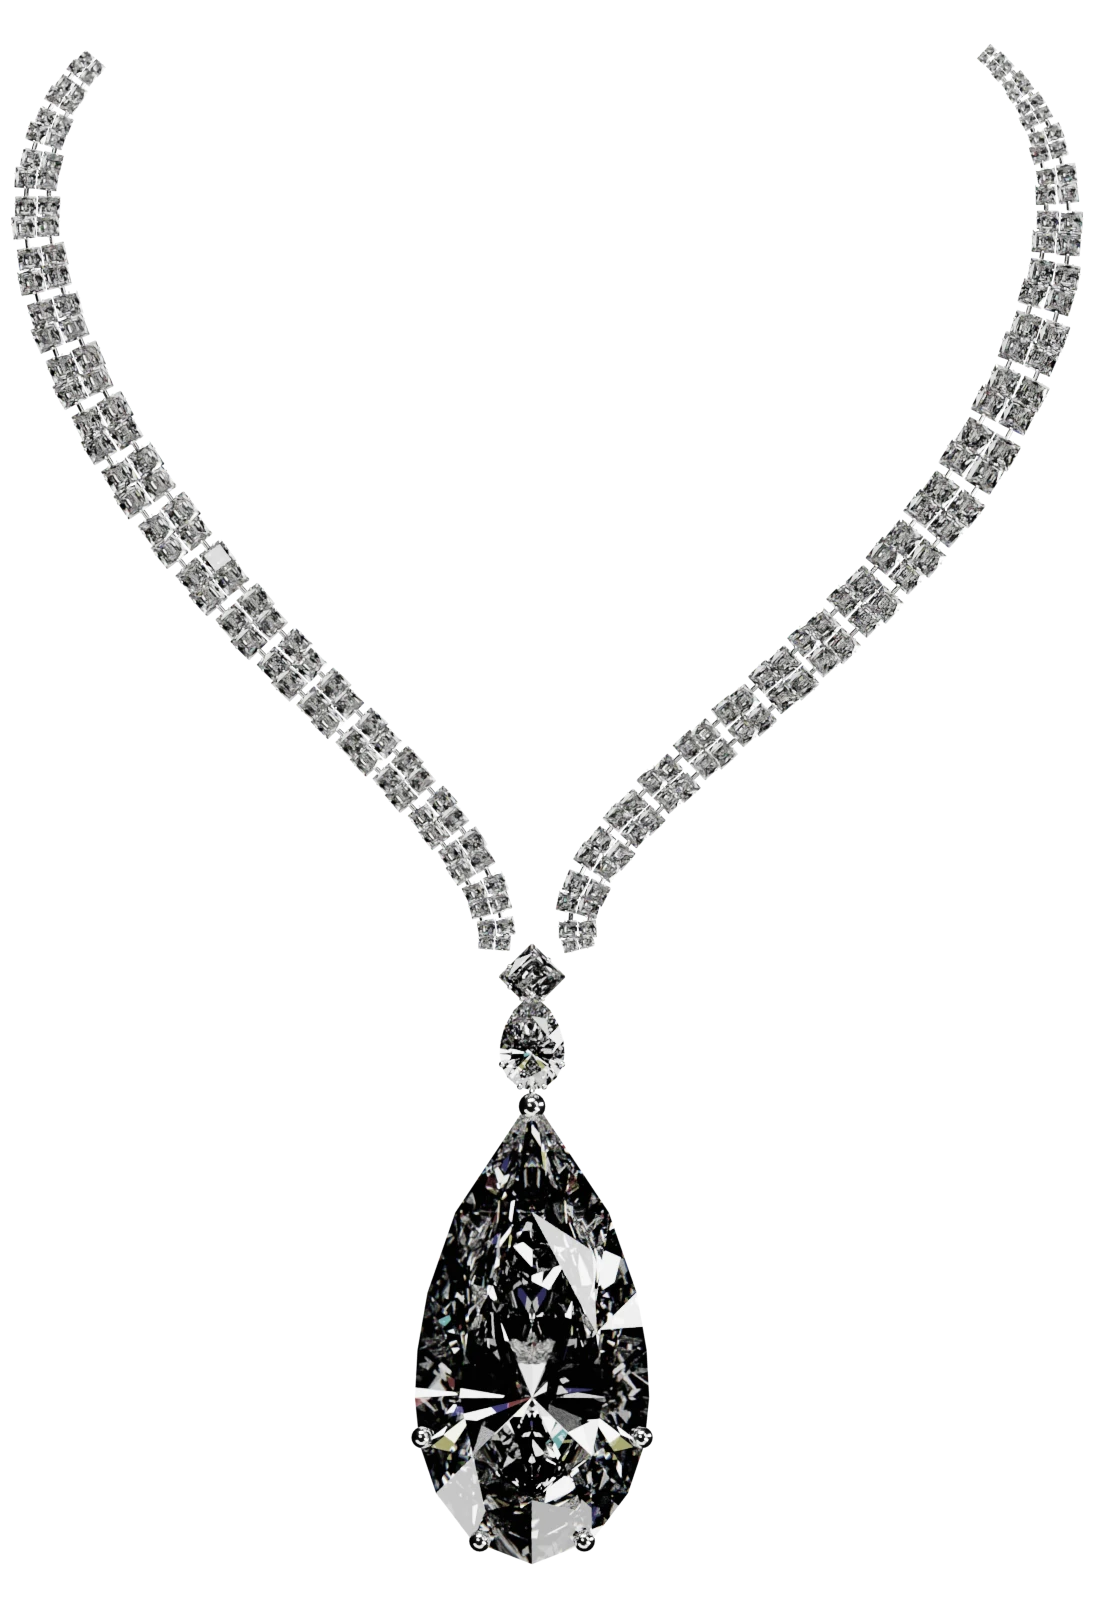
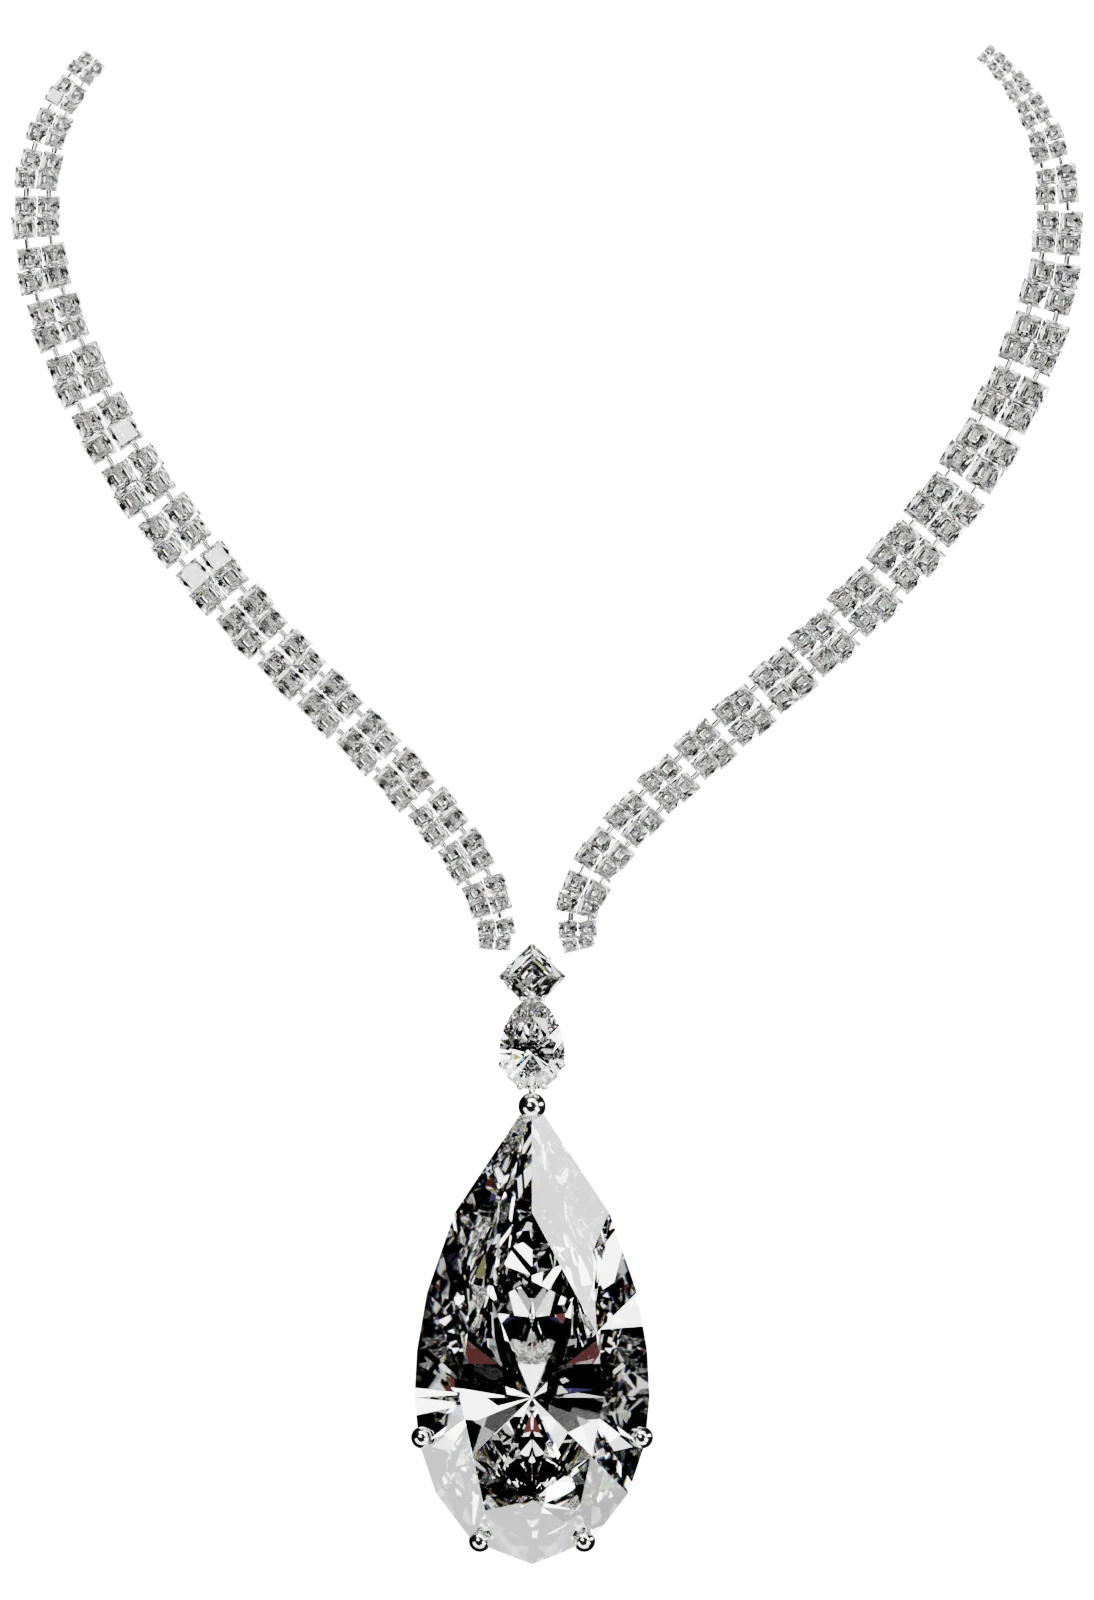
Jewelry: reflection sources 1.4 times larger (brighter, still transparent)
Each of the dark studio's reflection sources is 1.4 times its size: on the
drop about 34% light-carrying, 31% deep, 35% bright, 0.6% clipped (was 30%,
52%, 18%). Geometry and material unchanged.

Claude-Session: https://claude.ai/code/session_01ND34h3CQFwLi2jV16e1Vwz

Changed region(s): [[0.3729, 0.0625, 0.9945, 1.0], [0.0, 0.0312, 0.4662, 0.5938], [0.9013, 0.0312, 0.9324, 0.0625]]

diff --git a/art/necklace.py b/art/necklace.py
@@ -475,12 +475,18 @@ def softbox(el0, el1, az, half, power, dist=2000.0):
 # one of three things: a clean bright band, the dark room, or the light passing
 # through the stone.
 if not LIGHT:
-    RS = 2.0                                      # on the drop about 30% light-carrying, 52% deep, 18% bright, 0.1% clipped
-    softbox(55, 78, 150, 16, 6.0 * RS)            # the tall key reflection, upper left of the camera
-    softbox(34, 46, 20, 34, 5.0 * RS)             # the long narrow strip, right
-    softbox(6, 26, 250, 40, 3.0 * RS)             # the broad edge source, low left
-    softbox(18, 36, 300, 18, 2.0 * RS)            # a secondary, lower right
-    softbox(20, 40, 90, 22, 2.0 * RS)             # and one behind, seen through the stone
+    RS = 2.0
+    SZ = 1.4        # each source 1.4 times its first size: on the drop about 34% light-carrying, 31% deep, 35% bright, 0.6% clipped
+
+    def big(el0, el1, az, half, power):
+        mid, h = (el0 + el1) / 2, (el1 - el0) / 2 * SZ
+        softbox(max(1, mid - h), min(85, mid + h), az, half * SZ, power)
+
+    big(55, 78, 150, 16, 6.0 * RS)                # the tall key reflection, upper left of the camera
+    big(34, 46, 20, 34, 5.0 * RS)                 # the long narrow strip, right
+    big(6, 26, 250, 40, 3.0 * RS)                 # the broad edge source, low left
+    big(18, 36, 300, 18, 2.0 * RS)                # a secondary, lower right
+    big(20, 40, 90, 22, 2.0 * RS)                 # and one behind, seen through the stone
 
 
 def flag(loc, size):
